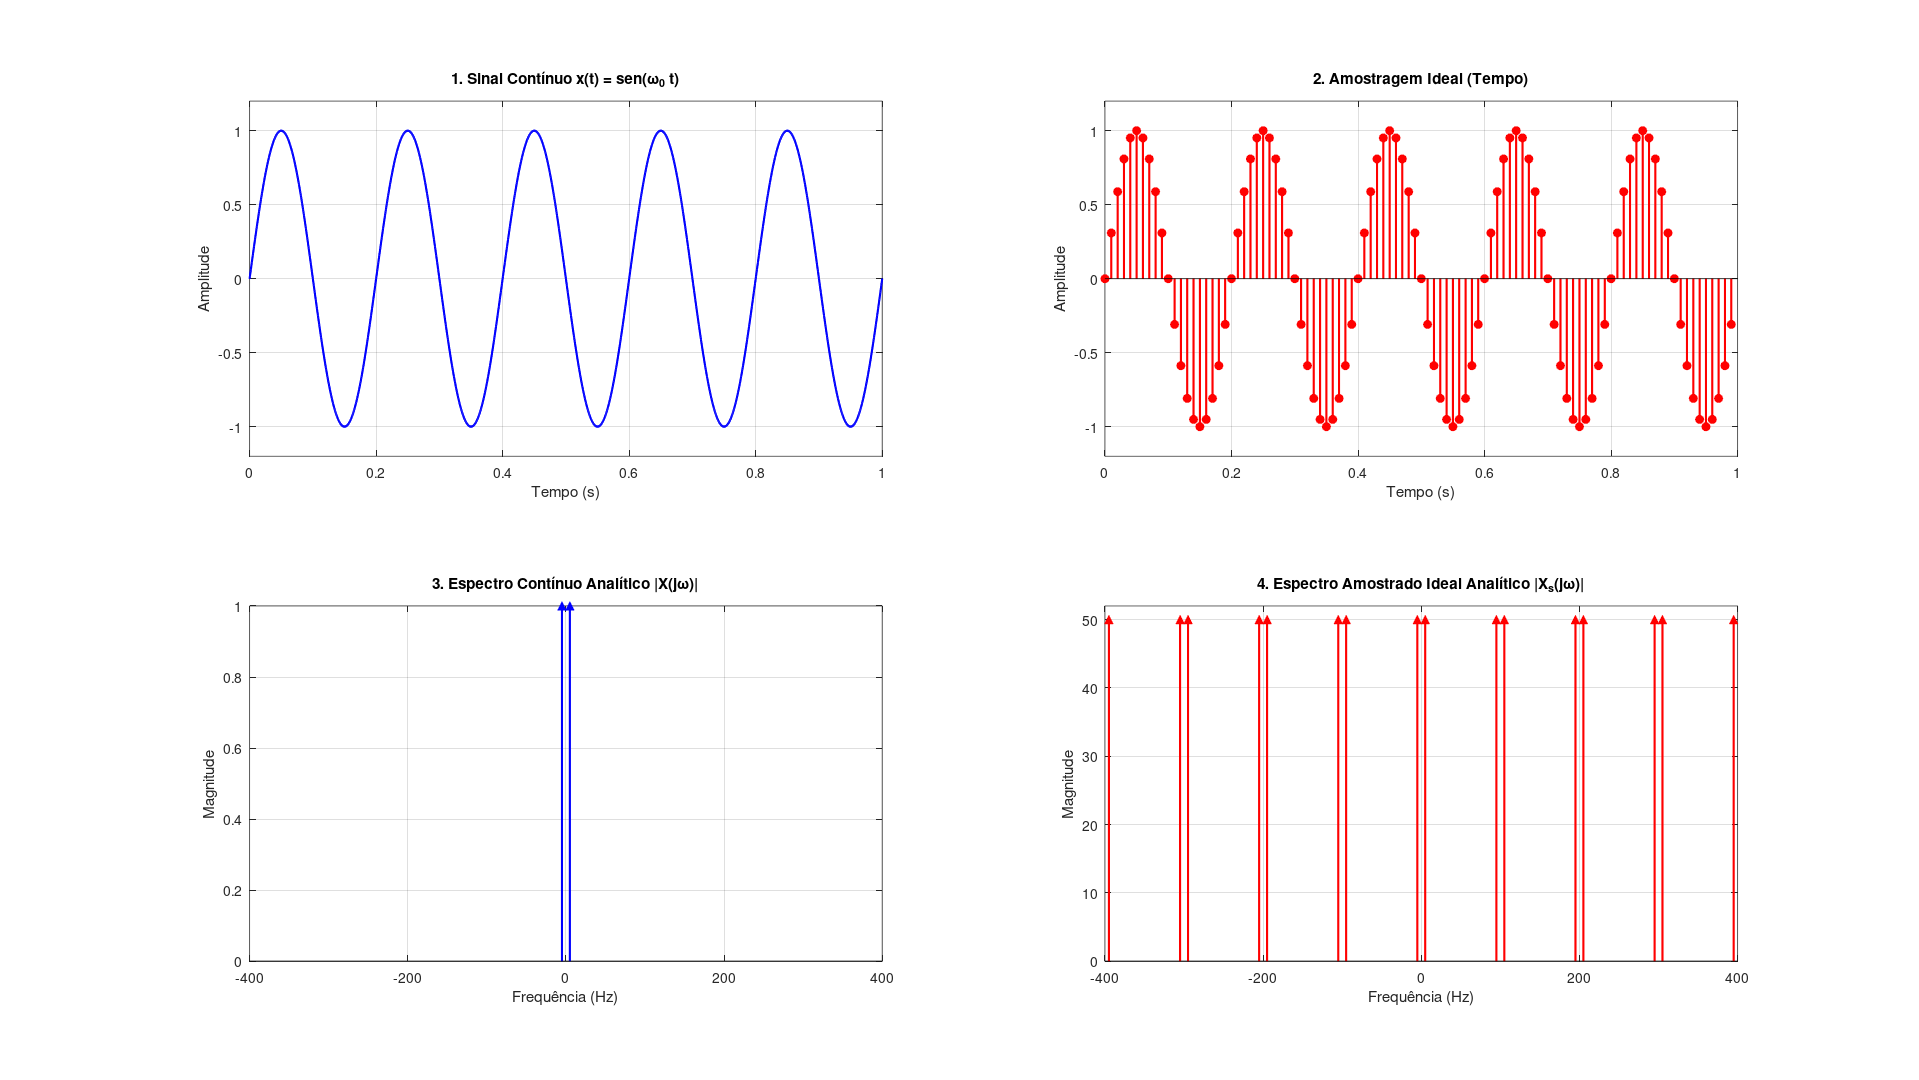
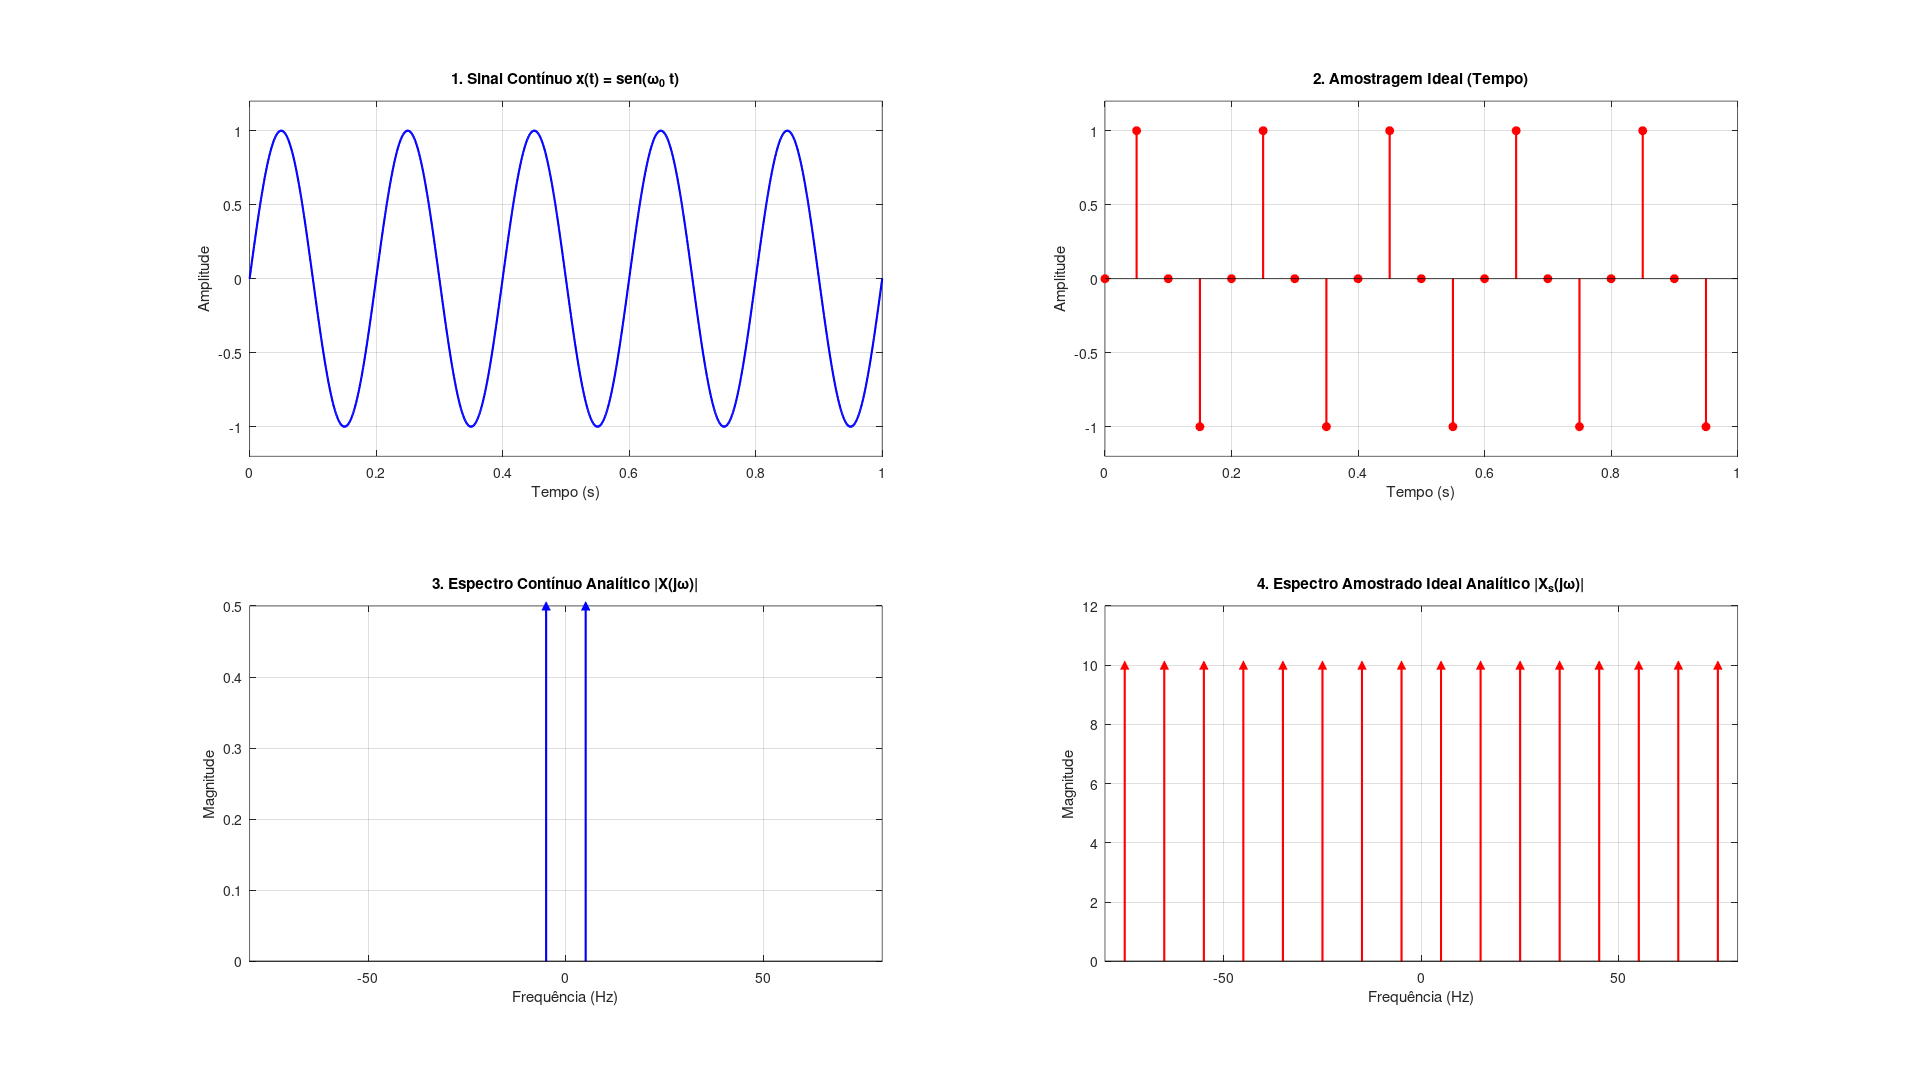
fix: valor da magnitude

diff --git a/main.m b/main.m
@@ -58,7 +58,7 @@ grid on; ylim([-1.2 1.2]);
 % PLOT 3: Frequência - Analítico (Contínuo)
 subplot(2, 2, 3);
 frequencyContinuous = [-frequency, frequency];
-magnitudeContinuous = [1, 1];
+magnitudeContinuous = [0.5, 0.5];
 stem(frequencyContinuous, magnitudeContinuous, 'b', 'Marker', '^', 'LineWidth', 1.5, 'MarkerFaceColor', 'b');
 title('3. Espectro Contínuo Analítico |X(j\omega)|');
 xlabel('Frequência (Hz)'); ylabel('Magnitude');
